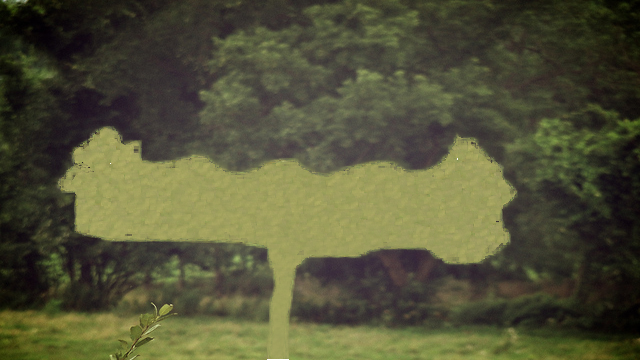
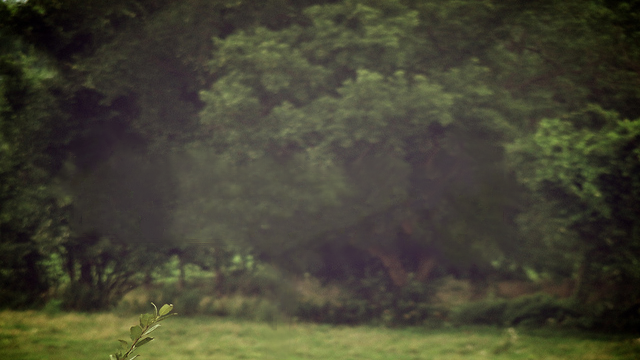
parallelised expectation step with openmp

Changed region(s): [[0.0625, 0.3361, 0.8125, 0.9167], [0.4062, 0.9778, 0.4688, 1.0]]

diff --git a/src/inpaint.cpp b/src/inpaint.cpp
@@ -2,11 +2,14 @@
 #include <opencv2/imgcodecs.hpp>
 #include <opencv2/imgproc.hpp>
 
+#include "../include/CycleTimer.h"
 #include "../include/cuda_helpers.h"
 #include "../include/inpaint.h"
-#include "../include/CycleTimer.h"
 #include "masked_image.h"
 #include <iostream>
+
+#include <omp.h>
+#include <vector>
 
 namespace {
 // lookup table that converts patch distance to similarity
@@ -72,11 +75,11 @@ Inpainting::Inpainting(cv::Mat image, cv::Mat mask, cv::Mat global_mask,
 void Inpainting::_initialize_pyramid() {
 	MaskedImage source = m_initial;
 	m_pyramid.push_back(source);
-	// while (source.size().height > m_distance_metric->patch_size() &&
-	// 	   source.size().width > m_distance_metric->patch_size()) {
-	// 	source = source.downsample();
-	// 	m_pyramid.push_back(source);
-	// }
+	while (source.size().height > m_distance_metric->patch_size() &&
+		   source.size().width > m_distance_metric->patch_size()) {
+		source = source.downsample();
+		m_pyramid.push_back(source);
+	}
 
 	if (kDistance2Similarity.size() == 0) {
 		init_kDistance2Similarity();
@@ -220,18 +223,20 @@ MaskedImage Inpainting::_expectation_maximization(MaskedImage source,
 
 		// Completeness - ensures that the output image contains as much
 		// information as possible from the input as possible
-		_expectation_step(m_source2target, 1, vote, new_source, upscaled);
+		_expectation_step(m_source2target, 1, vote, new_source, upscaled,
+						  m_gpu_enabled);
 		if (verbose)
 			std::cout << "  Expectation source to target finished."
 					  << std::endl;
 
 		// Coherence - ensures that the output is coherent wrt the input and
 		// that new visual structures are penalised
-		_expectation_step(m_target2source, 0, vote, new_source, upscaled);
+		_expectation_step(m_target2source, 0, vote, new_source, upscaled,
+						  m_gpu_enabled);
 		if (verbose)
 			std::cout << "  Expectation target to source finished."
 					  << std::endl;
-		
+
 		double t_after_estep = CycleTimer::currentSeconds();
 
 		// M step - Compile votes (averaged) and update pixel values.
@@ -240,7 +245,11 @@ MaskedImage Inpainting::_expectation_maximization(MaskedImage source,
 			std::cout << "  Minimization step finished." << std::endl;
 
 		double t_after_em = CycleTimer::currentSeconds();
-		LOG("[EM level=%d iter=%d] nnf=%.3fs upscaling=%.3fs expectation=%.3fs maximization=%.3fs\n", level, iter_em, t_after_nnf_minimize - t_start, t_after_upscaling - t_after_nnf_minimize, t_after_estep - t_after_upscaling, t_after_em - t_after_estep);
+		LOG("[EM level=%d iter=%d] nnf=%.3fs upscaling=%.3fs expectation=%.3fs "
+			"maximization=%.3fs\n",
+			level, iter_em, t_after_nnf_minimize - t_start,
+			t_after_upscaling - t_after_nnf_minimize,
+			t_after_estep - t_after_upscaling, t_after_em - t_after_estep);
 	}
 
 	return new_target;
@@ -250,50 +259,84 @@ MaskedImage Inpainting::_expectation_maximization(MaskedImage source,
 // Patch voting
 void Inpainting::_expectation_step(const NearestNeighborField &nnf,
 								   bool source2target, cv::Mat &vote,
-								   const MaskedImage &source, bool upscaled) {
+								   const MaskedImage &source, bool upscaled,
+								   bool is_parallel) {
 	auto source_size = nnf.source_size();
 	auto target_size = nnf.target_size();
 	const int patch_size = m_distance_metric->patch_size();
 
-	for (int i = 0; i < source_size.height; ++i) {
-		for (int j = 0; j < source_size.width; ++j) {
-			if (nnf.source().is_globally_masked(i, j))
-				continue;
-			int yp = nnf.at(i, j, 0), xp = nnf.at(i, j, 1),
-				dp = nnf.at(i, j, 2);
-			double w = kDistance2Similarity[dp];
+	int thr_count = is_parallel ? omp_get_max_threads() : 1;
+	LOG("thread count: %d\n", thr_count);
 
-			for (int di = -patch_size; di <= patch_size; ++di) {
-				for (int dj = -patch_size; dj <= patch_size; ++dj) {
-					int ys = i + di, xs = j + dj, yt = yp + di, xt = xp + dj;
-					if (!(ys >= 0 && ys < source_size.height && xs >= 0 &&
-						  xs < source_size.width))
-						continue;
-					if (nnf.source().is_globally_masked(ys, xs))
-						continue;
-					if (!(yt >= 0 && yt < target_size.height && xt >= 0 &&
-						  xt < target_size.width))
-						continue;
-					if (nnf.target().is_globally_masked(yt, xt))
-						continue;
+	std::vector<cv::Mat> local_votes(thr_count);
+	for (int t = 0; t < thr_count; ++t) {
+		local_votes[t] = cv::Mat::zeros(vote.size(), vote.type());
+	}
 
-					if (!source2target) {
-						std::swap(ys, yt);
-						std::swap(xs, xt);
-					}
+#pragma omp parallel num_threads(thr_count)
+	{
+		int tid = omp_get_thread_num();
+		auto local_vote = local_votes[tid];
 
-					if (upscaled) {
-						for (int uy = 0; uy < 2; ++uy) {
-							for (int ux = 0; ux < 2; ++ux) {
-								_weighted_copy(source, 2 * ys + uy, 2 * xs + ux,
-											   vote, 2 * yt + uy, 2 * xt + ux,
-											   w);
-							}
+		#pragma omp for collapse(2) schedule(static)
+		for (int i = 0; i < source_size.height; ++i) {
+			for (int j = 0; j < source_size.width; ++j) {
+				if (nnf.source().is_globally_masked(i, j))
+					continue;
+				int yp = nnf.at(i, j, 0), xp = nnf.at(i, j, 1),
+					dp = nnf.at(i, j, 2);
+				double w = kDistance2Similarity[dp];
+
+				for (int di = -patch_size; di <= patch_size; ++di) {
+					for (int dj = -patch_size; dj <= patch_size; ++dj) {
+						int ys = i + di, xs = j + dj, yt = yp + di,
+							xt = xp + dj;
+						if (!(ys >= 0 && ys < source_size.height && xs >= 0 &&
+							  xs < source_size.width))
+							continue;
+						if (nnf.source().is_globally_masked(ys, xs))
+							continue;
+						if (!(yt >= 0 && yt < target_size.height && xt >= 0 &&
+							  xt < target_size.width))
+							continue;
+						if (nnf.target().is_globally_masked(yt, xt))
+							continue;
+
+						if (!source2target) {
+							std::swap(ys, yt);
+							std::swap(xs, xt);
 						}
-					} else {
-						_weighted_copy(source, ys, xs, vote, yt, xt, w);
+
+						if (upscaled) {
+							for (int uy = 0; uy < 2; ++uy) {
+								for (int ux = 0; ux < 2; ++ux) {
+									_weighted_copy(source, 2 * ys + uy,
+												   2 * xs + ux, local_vote,
+												   2 * yt + uy, 2 * xt + ux, w);
+								}
+							}
+						} else {
+							_weighted_copy(source, ys, xs, local_vote, yt, xt,
+										   w);
+						}
 					}
 				}
+			}
+		}
+	}
+
+	vote.setTo(cv::Scalar::all(0));
+
+	#pragma omp parallel for collapse(2) schedule(static) num_threads(thr_count)
+	for (int y = 0; y < vote.rows; ++y) {
+		for (int x = 0; x < vote.cols; ++x) {
+			double *dst = vote.ptr<double>(y, x);
+			for (int t = 0; t < thr_count; ++t) {
+				const double *src = local_votes[t].ptr<double>(y, x);
+				dst[0] += src[0];
+				dst[1] += src[1];
+				dst[2] += src[2];
+				dst[3] += src[3];
 			}
 		}
 	}

diff --git a/include/inpaint.h b/include/inpaint.h
@@ -17,7 +17,7 @@ class Inpainting {
 										  bool verbose);
 	void _expectation_step(const NearestNeighborField &nnf, bool source2target,
 						   cv::Mat &vote, const MaskedImage &source,
-						   bool upscaled);
+						   bool upscaled, bool is_parallel);
 	void _maximization_step(MaskedImage &target, const cv::Mat &vote);
 
 	MaskedImage m_initial;

diff --git a/include/cuda_helpers.h b/include/cuda_helpers.h
@@ -1,5 +1,5 @@
 #pragma once
-#define DEBUG
+// #define DEBUG
 
 void cuda_device_sync();
 
